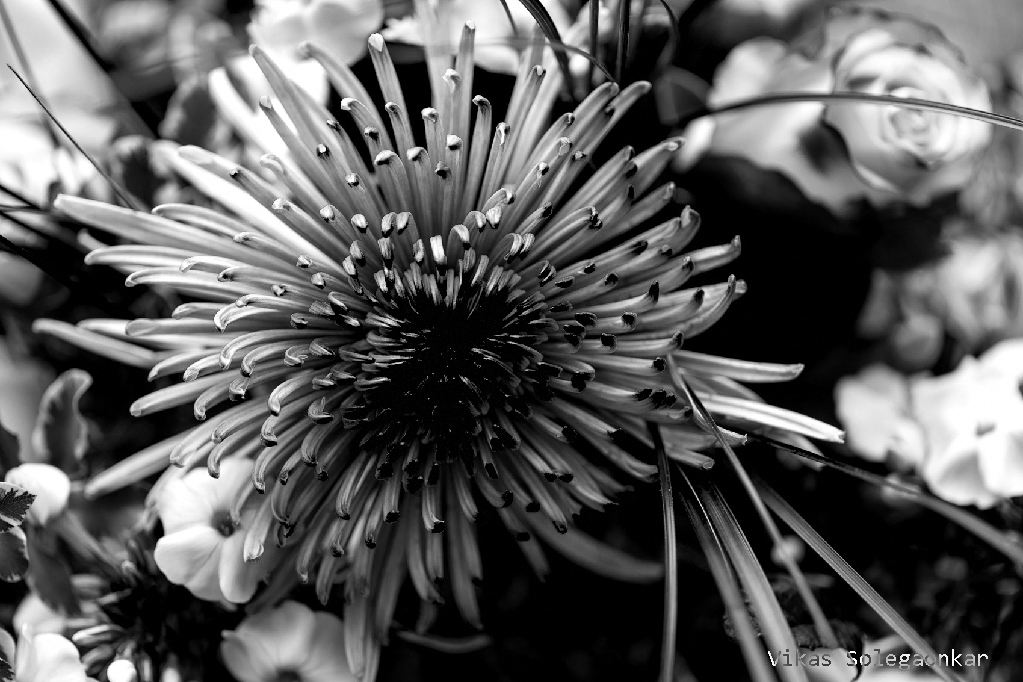
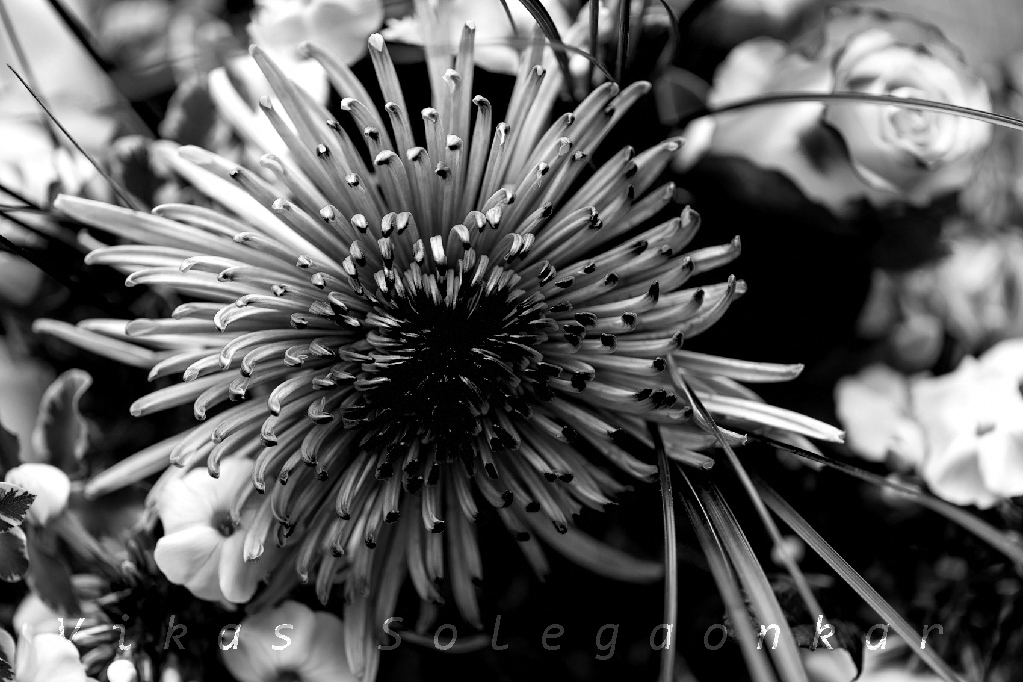
Working pretty well.

diff --git a/src/vikas/photography/image/EnhanceColor.java b/src/vikas/photography/image/EnhanceColor.java
@@ -5,25 +5,40 @@ import java.awt.image.BufferedImage;
 
 import vikas.photography.image.Photograph.Processor;
 
+/**
+ * Normalize the brightness and increase saturation. First identify the max values for S and B. Then update the whole
+ * image to set max to 1. Also use Math.pow - to increase saturation without overflowing.
+ * 
+ * @author vs0016025
+ *
+ */
 public class EnhanceColor implements Processor {
 
 	@Override
 	public BufferedImage process(BufferedImage image) {
-		final int[] rgb1 = image.getRGB(0, 0, image.getWidth(), image.getHeight(), null, 0, image.getWidth());
-		final int[] rgb2 = new int[rgb1.length];
-		final float[][] hsv = new float[rgb1.length][3];
+		final int[] rgb = new int[image.getHeight() * image.getWidth()];
+		final float[][] hsb = new float[rgb.length][3];
 
-		float maxV = 0.01f;
+		float maxB = 0.01f;
 		float maxS = 0.01f;
-		for (int i = 0; i < rgb1.length; i++) {
-			Color.RGBtoHSB(rgb1[i] >> 16, (rgb1[i] & 0xff00) >> 8, rgb1[i] & 0xff, hsv[i]);
-			maxS = (maxS > hsv[i][1]) ? maxS : hsv[i][1];
-			maxV = (maxV > hsv[i][2]) ? maxV : hsv[i][2];
+
+		int i = 0;
+		for (int x = 0; x < image.getWidth(); x++) {
+			for (int y = 0; y < image.getHeight(); y++) {
+				Color c = new Color(image.getRGB(x, y));
+				Color.RGBtoHSB(c.getRed(), c.getGreen(), c.getBlue(), hsb[i]);
+				maxS = (maxS > hsb[i][1]) ? maxS : hsb[i][1];
+				maxB = (maxB > hsb[i][2]) ? maxB : hsb[i][2];
+				i++;
+			}
 		}
-		for (int i = 0; i < rgb2.length; i++) {
-			rgb2[i] = Color.HSBtoRGB(hsv[i][0], hsv[i][1] / maxS, hsv[i][2] / maxV);
+		i = 0;
+		for (int x = 0; x < image.getWidth(); x++) {
+			for (int y = 0; y < image.getHeight(); y++) {
+				image.setRGB(x, y,
+						Color.HSBtoRGB(hsb[i][0], (float) Math.pow(hsb[i][1] / maxS, 0.75f), hsb[i++][2] / maxB));
+			}
 		}
-		image.setRGB(0, 0, image.getWidth(), image.getHeight(), rgb2, 0, image.getWidth());
 		return image;
 	}
 

diff --git a/src/vikas/photography/image/SignImage.java b/src/vikas/photography/image/SignImage.java
@@ -8,7 +8,6 @@ import java.awt.image.BufferedImage;
 import vikas.photography.framework.CommonUtils;
 import vikas.photography.image.Photograph.Processor;
 
-
 public class SignImage implements Processor {
 	private String signature;
 
@@ -28,23 +27,24 @@ public class SignImage implements Processor {
 		iw = image.getWidth();
 
 		// Did not dig too much into this. But it works. Most probably the font size has a 1:2 relation with the pixels.
-		int fs = iw / (2 * (signature.length() + 4));
-		BufferedImage signatureImage = new BufferedImage(iw / 4, fs * 2, BufferedImage.TYPE_INT_RGB);
+		int fs = 2 * iw / ((signature.length() + 8));
+		BufferedImage signatureImage = new BufferedImage(iw / 1, fs * 2, BufferedImage.TYPE_INT_RGB);
 		sh = signatureImage.getHeight();
 		sw = signatureImage.getWidth();
 		CommonUtils.info("Signature Image Dimensions: " + sw + ":" + sh);
 
 		Graphics2D g2d = signatureImage.createGraphics();
-		g2d.setFont(new Font("Consolas", Font.PLAIN, fs));
+		g2d.setFont(new Font("Consolas", Font.ITALIC, fs));
 		g2d.setColor(Color.WHITE);
-		g2d.drawString(signature, 0, 2 * sh / 3);
+		g2d.drawString("  " + signature, 0, 2 * sh / 3);
 		g2d.dispose();
 
 		srgb = signatureImage.getRGB(0, 0, sw, sh, null, 0, sw);
 		irgb = image.getRGB(iw - sw, ih - sh, sw, sh, null, 0, sw);
 
 		for (int i = 0; i < srgb.length; i++) {
-			irgb[i] ^= srgb[i];
+			if ((srgb[i] & 0xffffff) > 0)
+				irgb[i] = irgb[i] | (irgb[i] + 0x333333) & 0xffffff;
 		}
 		image.setRGB(iw - sw, ih - sh, sw, sh, irgb, 0, sw);
 		return image;

diff --git a/src/vikas/photography/image/ImageFile.java b/src/vikas/photography/image/ImageFile.java
@@ -31,7 +31,7 @@ public class ImageFile {
 	}
 
 	private static final Processor	scale		= new ScaleImage(Size.S01024);
-	private static final Processor	sign		= new SignImage("Vikas Solegaonkar");
+	private static final Processor	sign		= new SignImage("V i k a s   S o l e g a o n k a r");
 	private static final Processor	monochrome	= new Monochrome(new Color(255, 255, 255));
 	private static final Processor	enhance		= new EnhanceColor();
 
@@ -41,8 +41,8 @@ public class ImageFile {
 	 * @throws Exception
 	 */
 	public void process() throws Exception {
-		photograph.reset().apply(scale).apply(sign).apply(enhance).save(new File("enhance.jpg"), 1f);
-		photograph.reset().apply(scale).apply(sign).apply(monochrome).save(new File("monochrome.jpg"), 1f);
+		photograph.reset().apply(scale).apply(enhance).apply(sign).save(new File("enhance.jpg"), 1f);
+		photograph.reset().apply(scale).apply(monochrome).apply(sign).save(new File("monochrome.jpg"), 1f);
 	}
 
 	public static void main(String[] args) throws Exception {

diff --git a/src/vikas/photography/image/Photograph.java b/src/vikas/photography/image/Photograph.java
@@ -23,8 +23,6 @@ import org.apache.sanselan.common.IImageMetadata;
 import org.apache.sanselan.common.ImageMetadata.Item;
 import org.apache.sanselan.formats.jpeg.JpegImageMetadata;
 
-import fun.photoutil.main.CommonUtils;
-
 /**
  * A Utility container class that holds a BufferedImage. It delegates all the functions of the buffered Image and also
  * creates some of its own.
@@ -131,7 +129,6 @@ public class Photograph {
 			for (Object o : ((JpegImageMetadata) md).getItems()) {
 				Item item = (Item) o;
 				metadata.put(item.getKeyword(), item.getText());
-				CommonUtils.log(item.toString());
 			}
 		}
 	}

diff --git a/src/vikas/photography/framework/Configuration.java b/src/vikas/photography/framework/Configuration.java
@@ -1,10 +1,12 @@
-package fun.photoutil.main;
+package vikas.photography.framework;
 
 import java.io.FileReader;
 import java.io.FileWriter;
 
 import org.json.simple.JSONObject;
 import org.json.simple.parser.JSONParser;
+
+import fun.photoutil.main.CommonUtils;
 
 public class Configuration {
 	private static final JSONObject json = readConf();

diff --git a/src/fun/photoutil/main/Photography.java b/src/fun/photoutil/main/Photography.java
@@ -1,6 +1,7 @@
 package fun.photoutil.main;
 
 import fun.photoutil.ui.SplashScreen;
+import vikas.photography.framework.Constants;
 
 /**
  * The main entry point for the application. It triggers everything required for the application.

diff --git a/src/vikas/photography/framework/Constants.java b/src/vikas/photography/framework/Constants.java
@@ -1,4 +1,4 @@
-package fun.photoutil.main;
+package vikas.photography.framework;
 
 import java.io.File;
 
